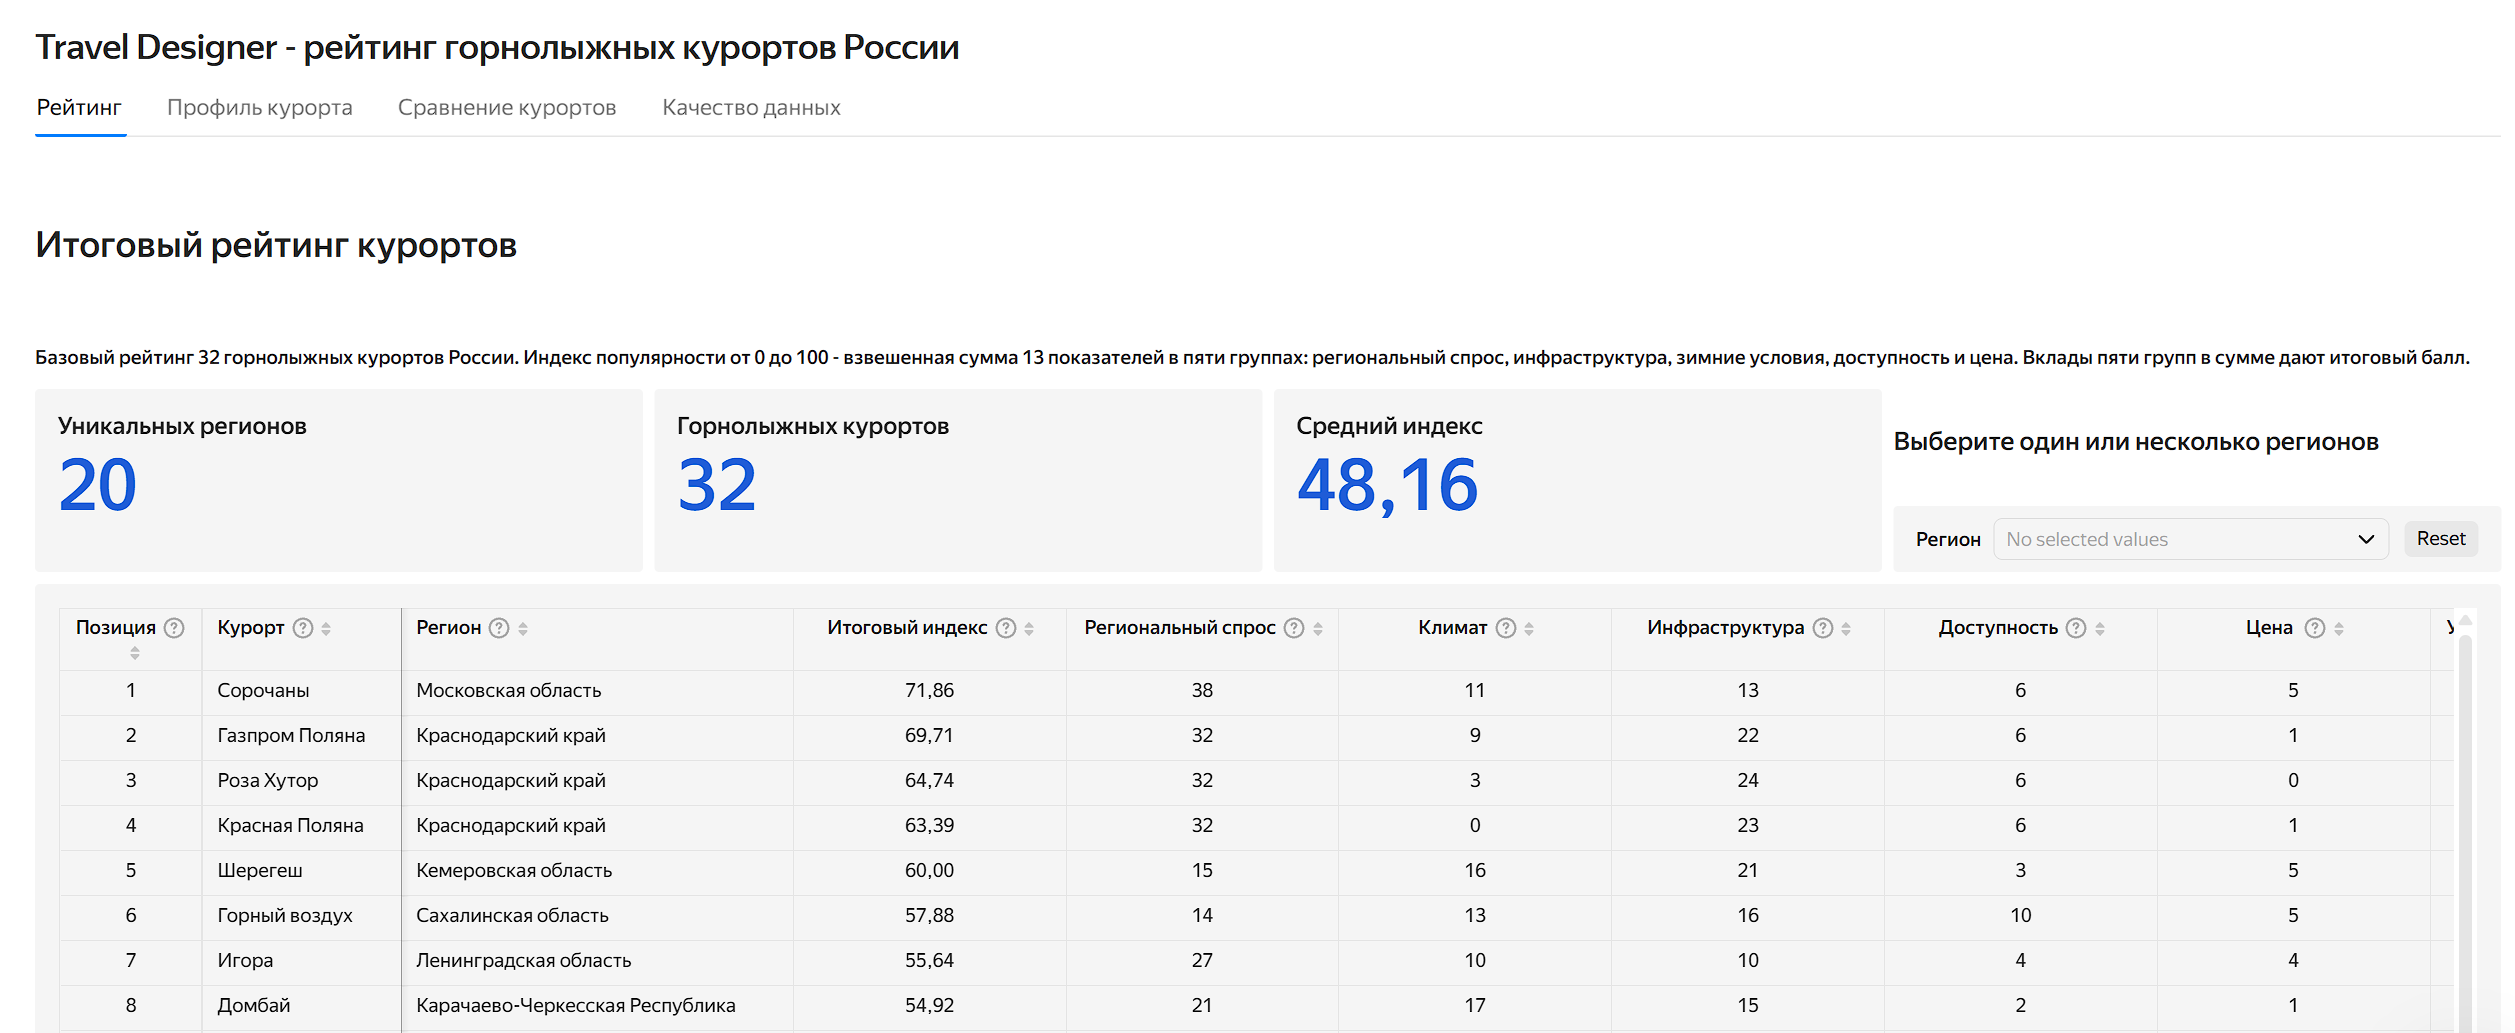
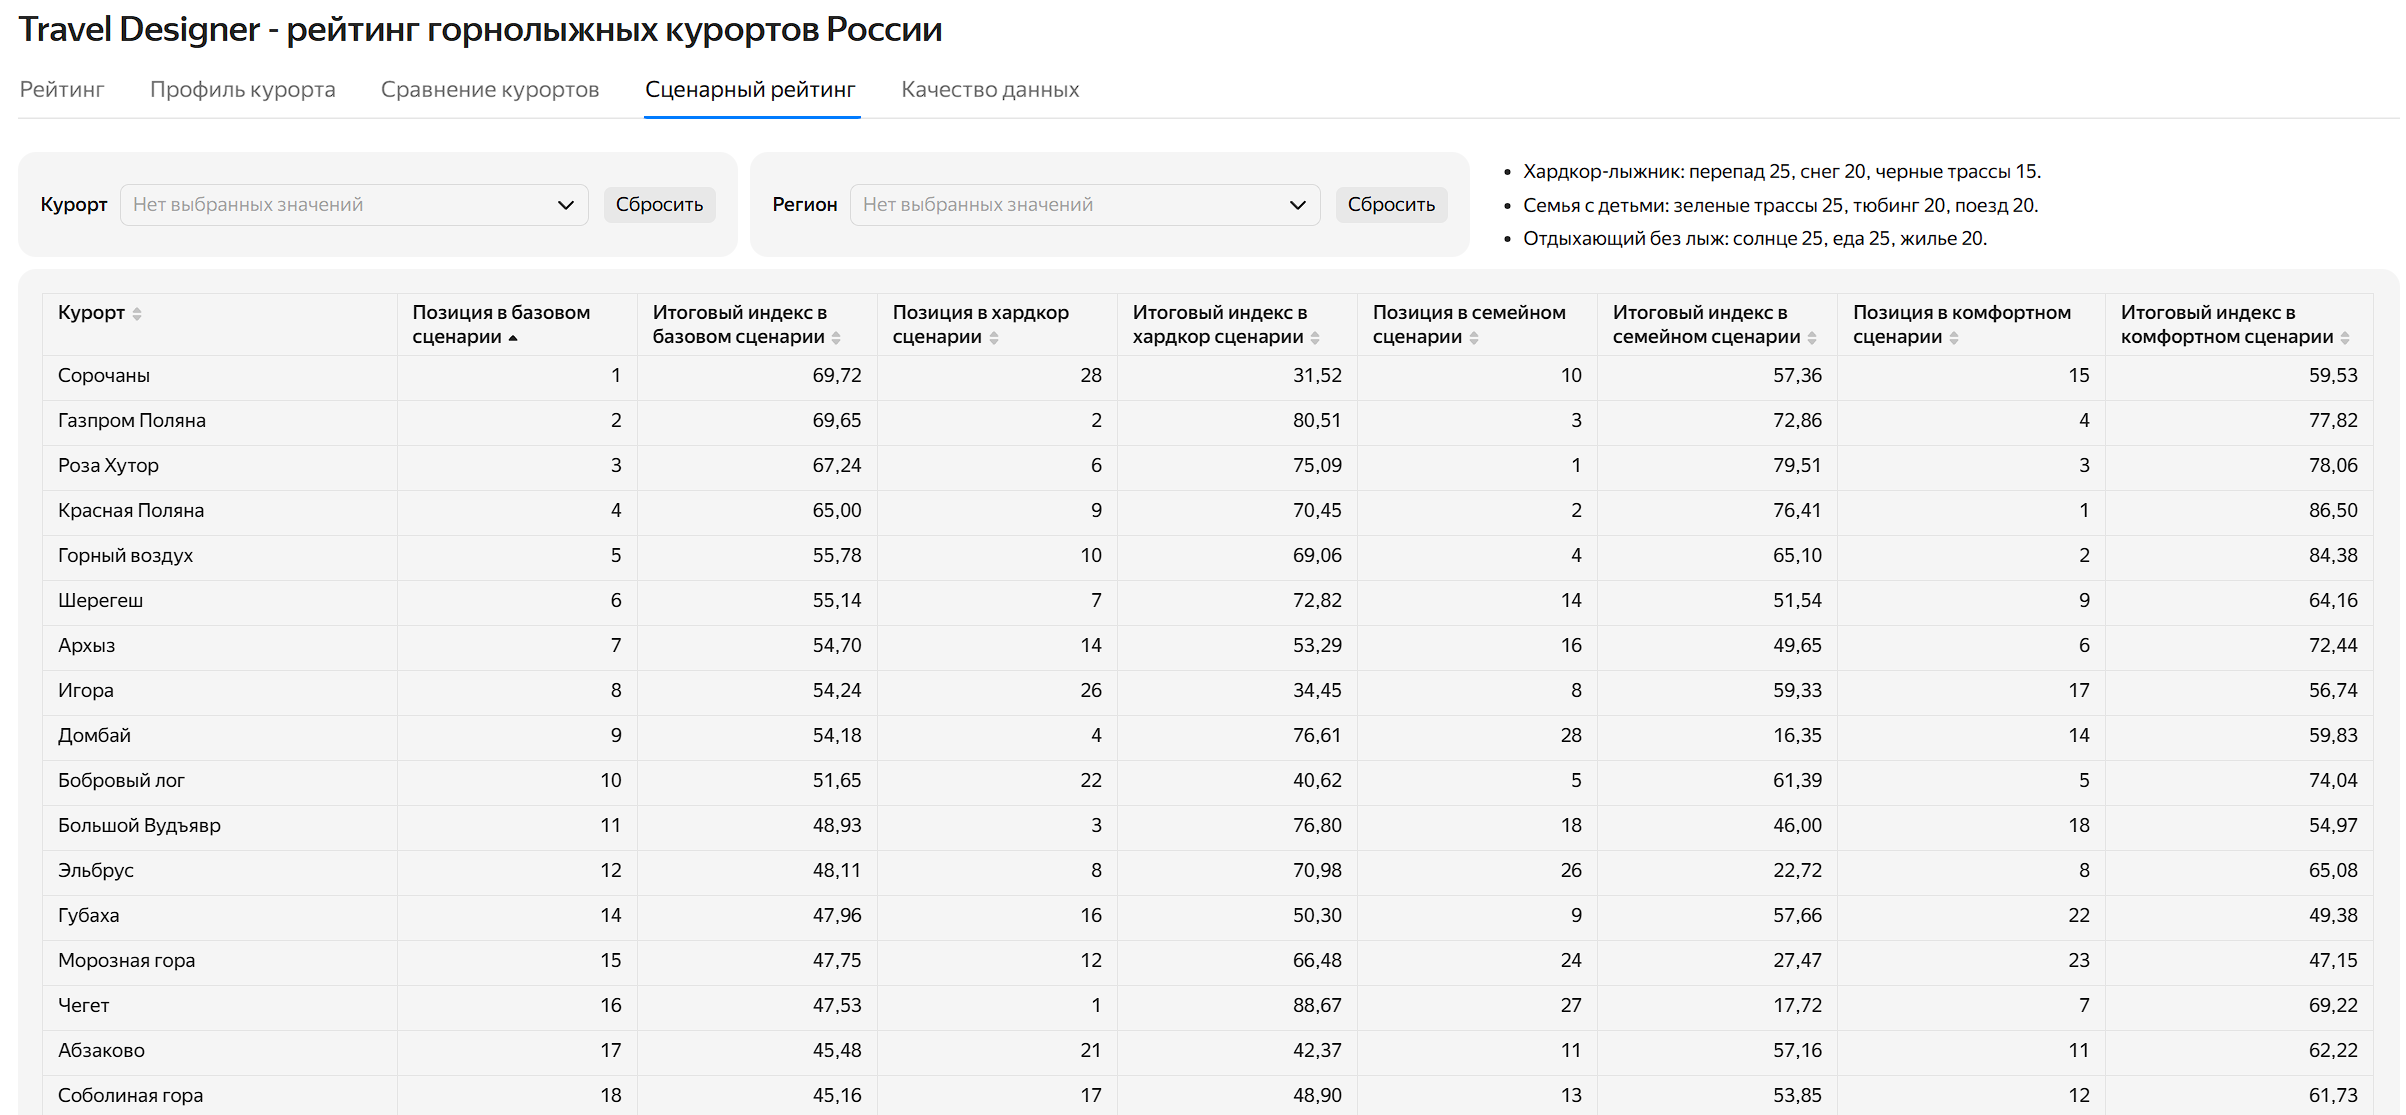
редактирование дашборда

diff --git a/README.md b/README.md
@@ -35,10 +35,11 @@ prepared-таблицы -> витрина `data/mart/resort_features.csv` ->
 **Интерактивная версия рейтинга** — [Yandex DataLens](https://datalens.yandex/jvget59m6cgo2?_embedded=1&_no_controls=1&_theme=light)
 
 Четыре вкладки: 
-1. Таблица рейтинга с фильтром по региону
+1. Таблица рейтинга с фильтром по региону и статусу работы
 2. Профиль курорта с картой
 3. Сравнение двух курортов
-4. Качество данных. 
+4. Сценарный рейтинг
+4. Информация о качестве данных
 * Дашборд ничего не считает сам - источники data/mart/resort_scores.csv и его перевертыш data/mart/resort_scores_long.csv для вкладки профиля, оба пересобираются конвейером.
 
 ![Экран "Рейтинг"](assets/dashboard_rating_1.png)
